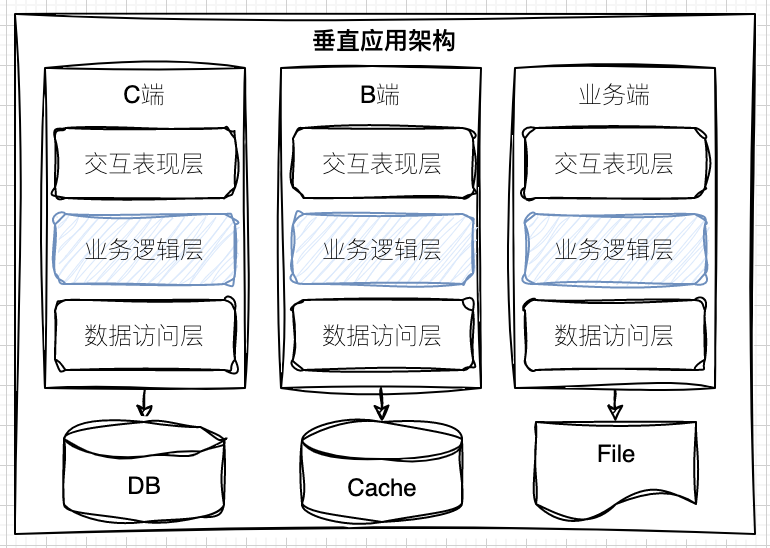
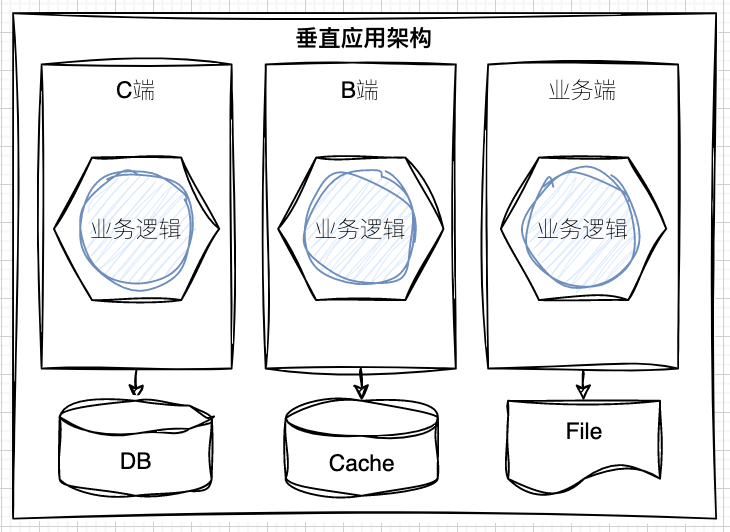
update image

Changed region(s): [[0.0, 0.0, 1.0, 1.0], [0.9041, 0.782, 0.9342, 0.8421]]

diff --git a/_posts/2023-05-23-web-arch-evolution.md b/_posts/2023-05-23-web-arch-evolution.md
@@ -22,11 +22,11 @@ author: dinstone
 
 随着互联网的普及，Web应用成了软件开发的主流，而Web应用的架构方法自然也就成了焦点。下面我们一起研究一下它的演进路径。
 
-![msc]({{site.url}}/img/arch/evolution.png)
+![aae]({{site.url}}/img/arch/evolution.png)
 
 ### 单体应用架构
 
-![msc]({{site.url}}/img/arch/single.png)
+![aae]({{site.url}}/img/arch/single.png)
 
 特点：
 
@@ -34,11 +34,13 @@ author: dinstone
 
 2. 应用可通过水平复制或数据分区的扩展方式提升系统吞吐和可用性。
 
-3. 架构的重点是对应用做分层和分模块设计，先后经历了MVC架构和分层架构。
+3. 架构的重点是对应用做分层和分模块设计，先后经历了MVC架构、分层架构、六边形架构。
 
 * MVC架构（二层架构）将视图和模型分离，多个视图可以共享一个模型，解决视图和模型耦合的问题。
 
 * 分层架构（三层架构）进一步对模型进行分层，采用面向接口编程，各层之间采用接口相互访问，解决了业务逻辑可测试性的问题。
+
+* 六边形架构以业务逻辑层为中心组织逻辑视图。业务逻辑层通过暴露的出入站端口（port）与适配器层的出入站适配器（adapter）交互，完成系统之间的调用。
 
 优点：
 
@@ -61,7 +63,7 @@ author: dinstone
 
 ### 垂直应用架构
 
-![msc]({{site.url}}/img/arch/vertical.png)
+![aae]({{site.url}}/img/arch/vertical.png)
 
 特点：
 
@@ -85,7 +87,7 @@ author: dinstone
 
 ## 分层服务架构
 
-![msc]({{site.url}}/img/arch/layered.png)
+![aae]({{site.url}}/img/arch/layered.png)
 
 特点：
 
@@ -109,7 +111,7 @@ author: dinstone
 
 ## 面向服务架构
 
-![msc]({{site.url}}/img/arch/soa.png)
+![aae]({{site.url}}/img/arch/soa.png)
 
 特点：
 
@@ -138,7 +140,7 @@ author: dinstone
 
 ## 微服务架构
 
-![msc]({{site.url}}/img/arch/msa.png)
+![aae]({{site.url}}/img/arch/msa.png)
 
 特点：
 
